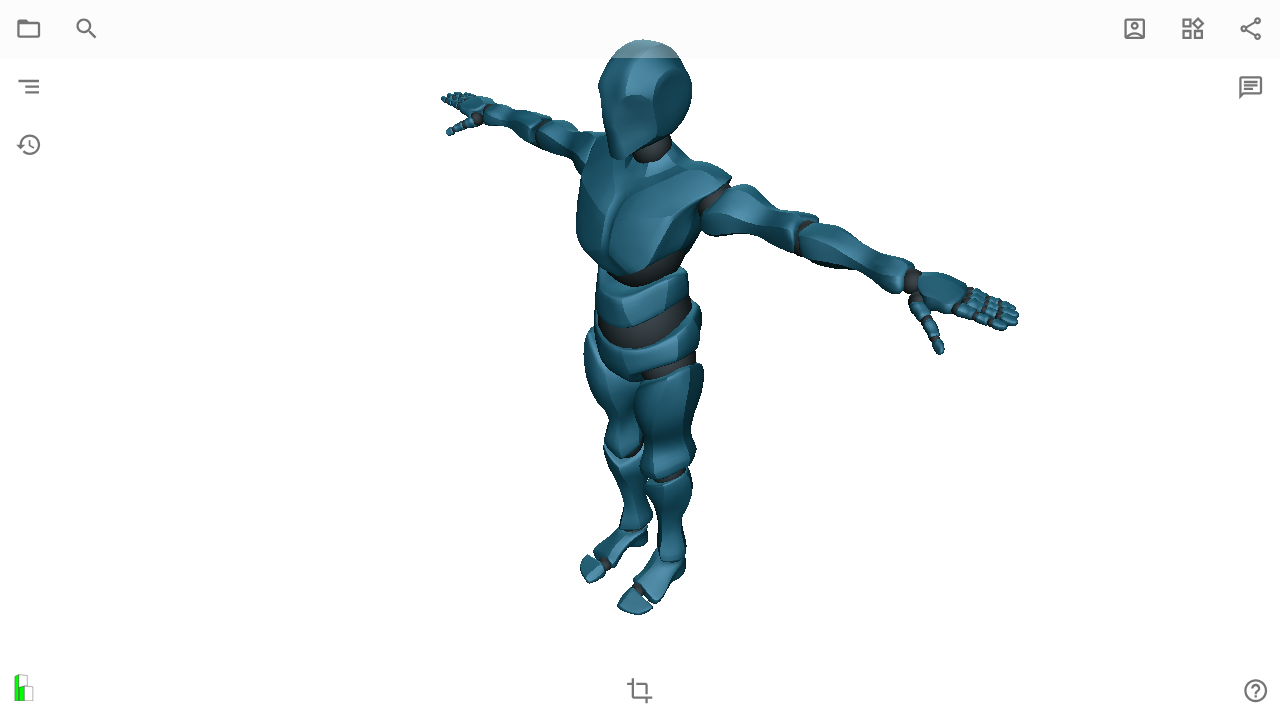
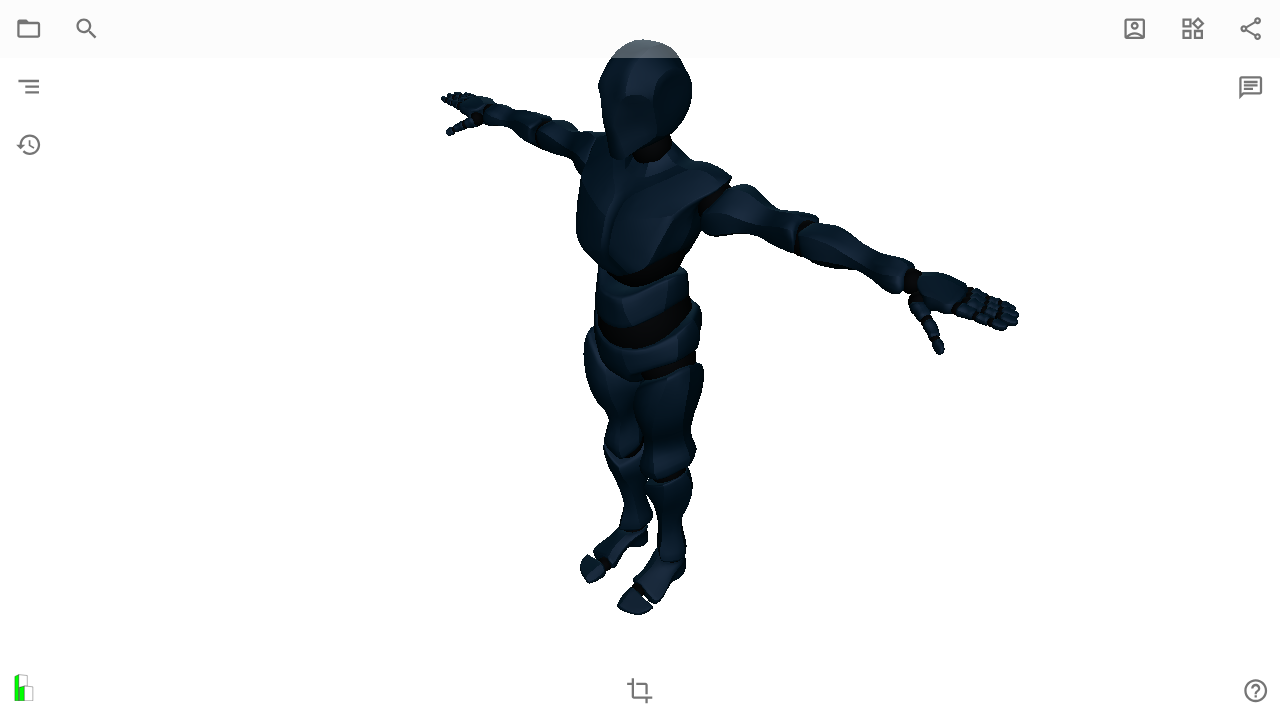
Merge pull request #1554 from bldrs-ai/claude/great-pasteur-rshb5n
Slice 5e: enable three's managed color

Pull request: Slice 5e: enable three's managed color
## Summary

Slice 5e, **scoped down after deploy-preview review**: enable three's managed color (`ColorManagement.enabled = true`, the r184 default) and nothing else — everything else stays at production values.

This is the first, smallest step of the §6b/§6e color-pipeline forward move and a correctness prerequisite (lighting/color math now runs in linear space), landed in isolation so it's a tiny, low-risk diff.

## Change
- `ShareViewer.js`: `ColorManagement.enabled = false` → `true` (+ comment rewrites).
- `outputColorSpace` stays `LinearSRGBColorSpace`, no tone mapper is set, and the scene lights keep their `×π` production intensities — so `scene.js` is **unchanged vs main**.
- `viewer-replacement.md §5e`: records the scope + what's deferred.

Net diff: one functional line + comments + doc.

## Visual impact
Managed color is a **slight, accepted shift** on the current flat IFC lighting (reviewed on the deploy preview vs production). The dramatic forward step — SRGB output + tone mapping + a light re-tune — was explored and **deferred**: on flat IFC lighting a filmic mapper (ACES/AgX) just dims/flattens (no HDR range to map), so it only pays off alongside an environment map + PBR materials. Folded into the §6e step-4/5 follow-up, where `NeutralToneMapping` (color-accurate) is the likely CAD-appropriate mapper.

## CI note
[…]

Changed region(s): [[0.3438, 0.0611, 0.8125, 0.8556]]

diff --git a/src/viewer/ShareViewer.js b/src/viewer/ShareViewer.js
@@ -40,27 +40,20 @@ function nextPow2(n) {
 import {areDefinedAndNotNull} from '../utils/assert'
 
 
-// Disable three.js r152+ automatic linear-sRGB color management
-// (a.k.a. "Managed" color mode). With it enabled, three converts sRGB
-// values to linear before lighting and back to sRGB on output — the
-// physically-correct path. The fork (web-ifc-viewer) and our material
-// setup were tuned in the r135 era against the *legacy* regime where
-// material colors are used as-is and the rendered framebuffer flows
-// straight through the monitor's sRGB curve. Under managed mode the
-// Schependomlaan baseline renders washed out / overly bright.
+// Slice 5e (design/new/viewer-replacement.md): enable three's r152+
+// automatic sRGB↔linear color management (the r184 default). Bldrs ran
+// with it OFF through the r135→r184 bump as a pixel-for-pixel compat hold;
+// 5e turns it back on as the first, smallest step toward the modern color
+// pipeline. Set at module load, before any three object is constructed, so
+// the renderer/scene/materials all see managed mode. On today's flat IFC
+// lighting this is a slight, accepted shift; managed color mainly pays off
+// later with an env map + PBR materials + tone mapping (§6e).
 //
-// Setting this to `false` at module load (before any three object is
-// constructed, including the fork's renderer/scene/materials inside
-// `new IfcViewerAPI(...)`) restores r135-identical visual output. It
-// also reverts the r157 `useLegacyLights = false` default's effect for
-// most practical purposes — light intensities tuned for r135 (e.g.,
-// the fork's hardcoded `0.8` / `0.25` in scene.js) match the r135
-// visual without per-light π scaling.
-//
-// Goes away with Phase 5 of design/new/viewer-replacement.md, when
-// ShareViewer owns its scene and we re-enable Managed mode as the new
-// baseline.
-ColorManagement.enabled = false
+// Deliberately the ONLY color change in this slice: everything else stays
+// at the production values — `outputColorSpace` keeps `LinearSRGBColorSpace`
+// (see the constructor) and the scene lights keep their `×π` intensities —
+// so the visible delta is just managed color.
+ColorManagement.enabled = true
 
 
 const viewParameter = (new URLSearchParams(window.location.search)).get('view')?.toLowerCase() ?? 'default'
@@ -160,17 +153,16 @@ export class ShareViewer {
       this.ifcLoader = new ShareIfcLoader({ifcAPI: conwayIfcAPI, ifc: this.IFC})
     }
     const renderer = this.context.getRenderer()
-    // Partner to the top-level `ColorManagement.enabled = false`: that
-    // disables the *input* side (auto sRGB→linear conversions on
-    // materials / textures); this disables the *output* side. r184's
-    // `WebGLRenderer.outputColorSpace` default is `SRGBColorSpace`,
-    // which gamma-encodes the rendered framebuffer. r135's default was
-    // `LinearEncoding` (no gamma encoding) — the modern equivalent is
-    // `LinearSRGBColorSpace`. Postprocessing's `EffectComposer.initialize`
-    // also keys off this property: when it sees SRGB it tags its render
-    // target as sRGB and applies its own encoding. We need both off to
-    // match r135 pixel-for-pixel. Guard for tests where the mock's
-    // getRenderer() returns undefined.
+    // Kept at the production value `LinearSRGBColorSpace` (three r135's
+    // no-output-gamma-encode behavior) even though color management is now
+    // ON (module top). The fully-correct managed combo is SRGB output +
+    // tone mapping + re-tuned lights, but on flat IFC lighting that needs
+    // real range (env map / PBR) to look right, so it's deferred to a
+    // follow-up (§6e). Holding output here keeps the render ≈ production —
+    // 5e's only visible change is the slight managed-color shift.
+    // Postprocessing's `EffectComposer.initialize` keys off this property,
+    // so it's set before `new CustomPostProcessor()` below. Guard for tests
+    // where the mock's getRenderer() returns undefined.
     if (renderer) {
       renderer.outputColorSpace = LinearSRGBColorSpace
     }

diff --git a/design/new/viewer-replacement.md b/design/new/viewer-replacement.md
@@ -1053,24 +1053,26 @@ comments (`grep "5d\." src/`).
     `shareViewerTestHarness.js` and dropped the `moduleNameMapper` it had
     resolved through.)
 
-**Slice 5e — shed fork-era three-compat scaffolding (todo; rescoped
-2026-06).** The version bump is already *done*: `three@0.184.0` +
+**Slice 5e — shed fork-era three-compat scaffolding (in progress;
+rescoped 2026-06).** The version bump is already *done*: `three@0.184.0` +
 `@types/three@0.184.1`, forced tree-wide via `resolutions`. So this slice
 is no longer "bump `three`" — it's removing the compat layers that existed
 to run the old fork against modern `three`, now that the fork is gone:
 
   1. **Color / lighting forward step (§6b steps 2, 3, 5 + re-tune the
-     inlined lights).** Re-enable `ColorManagement.enabled = true` and
-     `renderer.outputColorSpace = SRGBColorSpace`, set a tone mapper
-     (`ACESFilmicToneMapping`), and re-tune the `×π` light intensities now
-     inlined in the vendored `src/viewer/three/context/scene.js` (5d.3) —
-     they were tuned against the broken legacy path. Goal: reclaim control
-     of the color pipeline now that we own the scene. This is the one
-     genuinely *visual* change and **may not fully land** (the legacy look
-     may be hard to reproduce under managed color) — gate it on a
-     side-by-side render check and snapshot a fresh Cosmos baseline before
-     committing. `ColorManagement.enabled = false` lives at
-     `ShareViewer.js:67` today.
+     inlined lights) — partially landed; managed color only.** 5e enables
+     just the first sub-step: `ColorManagement.enabled = true` (the r184
+     default; the r135-compat `= false` is removed). `outputColorSpace`
+     stays at the production `LinearSRGBColorSpace`, no tone mapper is set,
+     and the scene lights keep their production `×π` values — so the only
+     visible change is a slight, accepted managed-color shift. The rest of
+     the forward step — SRGB output + a tone mapper + a light re-tune — was
+     explored and **deferred**: on today's flat IFC lighting a filmic
+     mapper (ACES/AgX) just dims/flattens because there's no HDR range to
+     map, so it only pays off alongside an environment map + PBR materials.
+     Folded into the §6e step-4/5 follow-up. For a CAD viewer,
+     `NeutralToneMapping` (color-accurate, minimal hue shift) is the likely
+     mapper choice there rather than ACES.
   2. **Drop the `BLDRS_face_ids` per-vertex fallback's wit-three-specific
      checks** — wit-three's parse-state assumptions no longer apply.
   3. **Re-evaluate the `?feature=perf` baseline** now the fork (and its